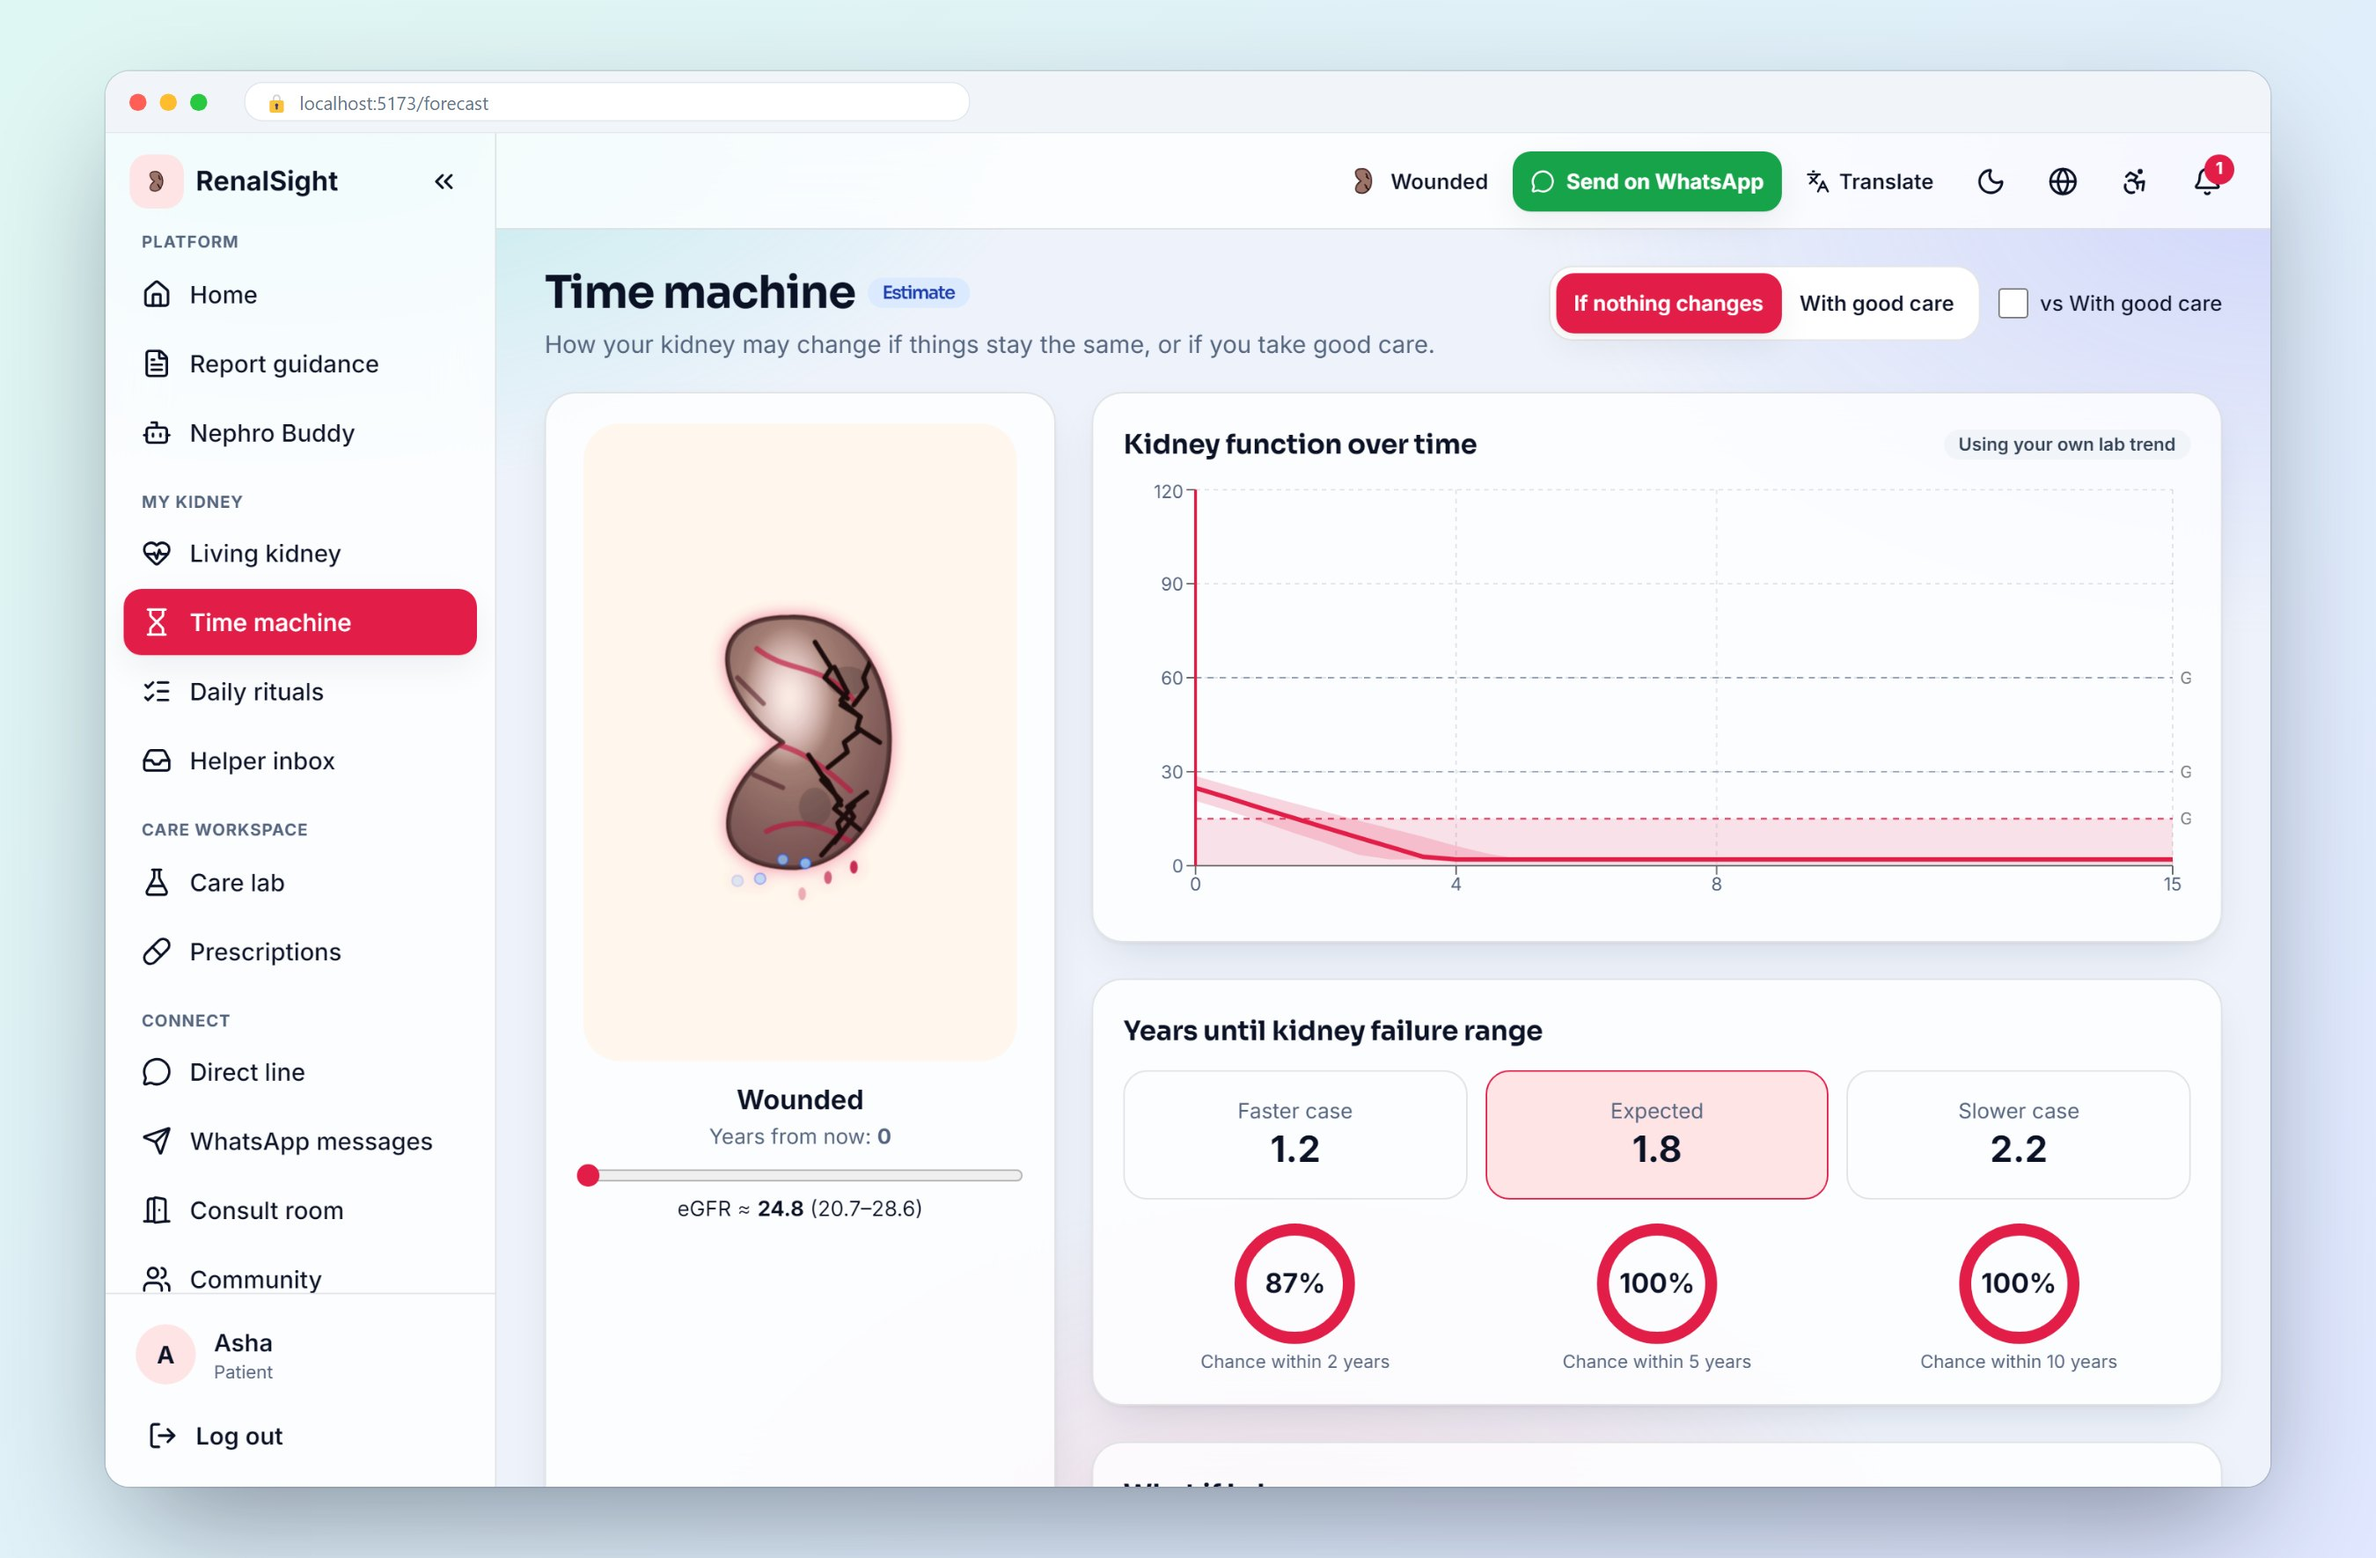
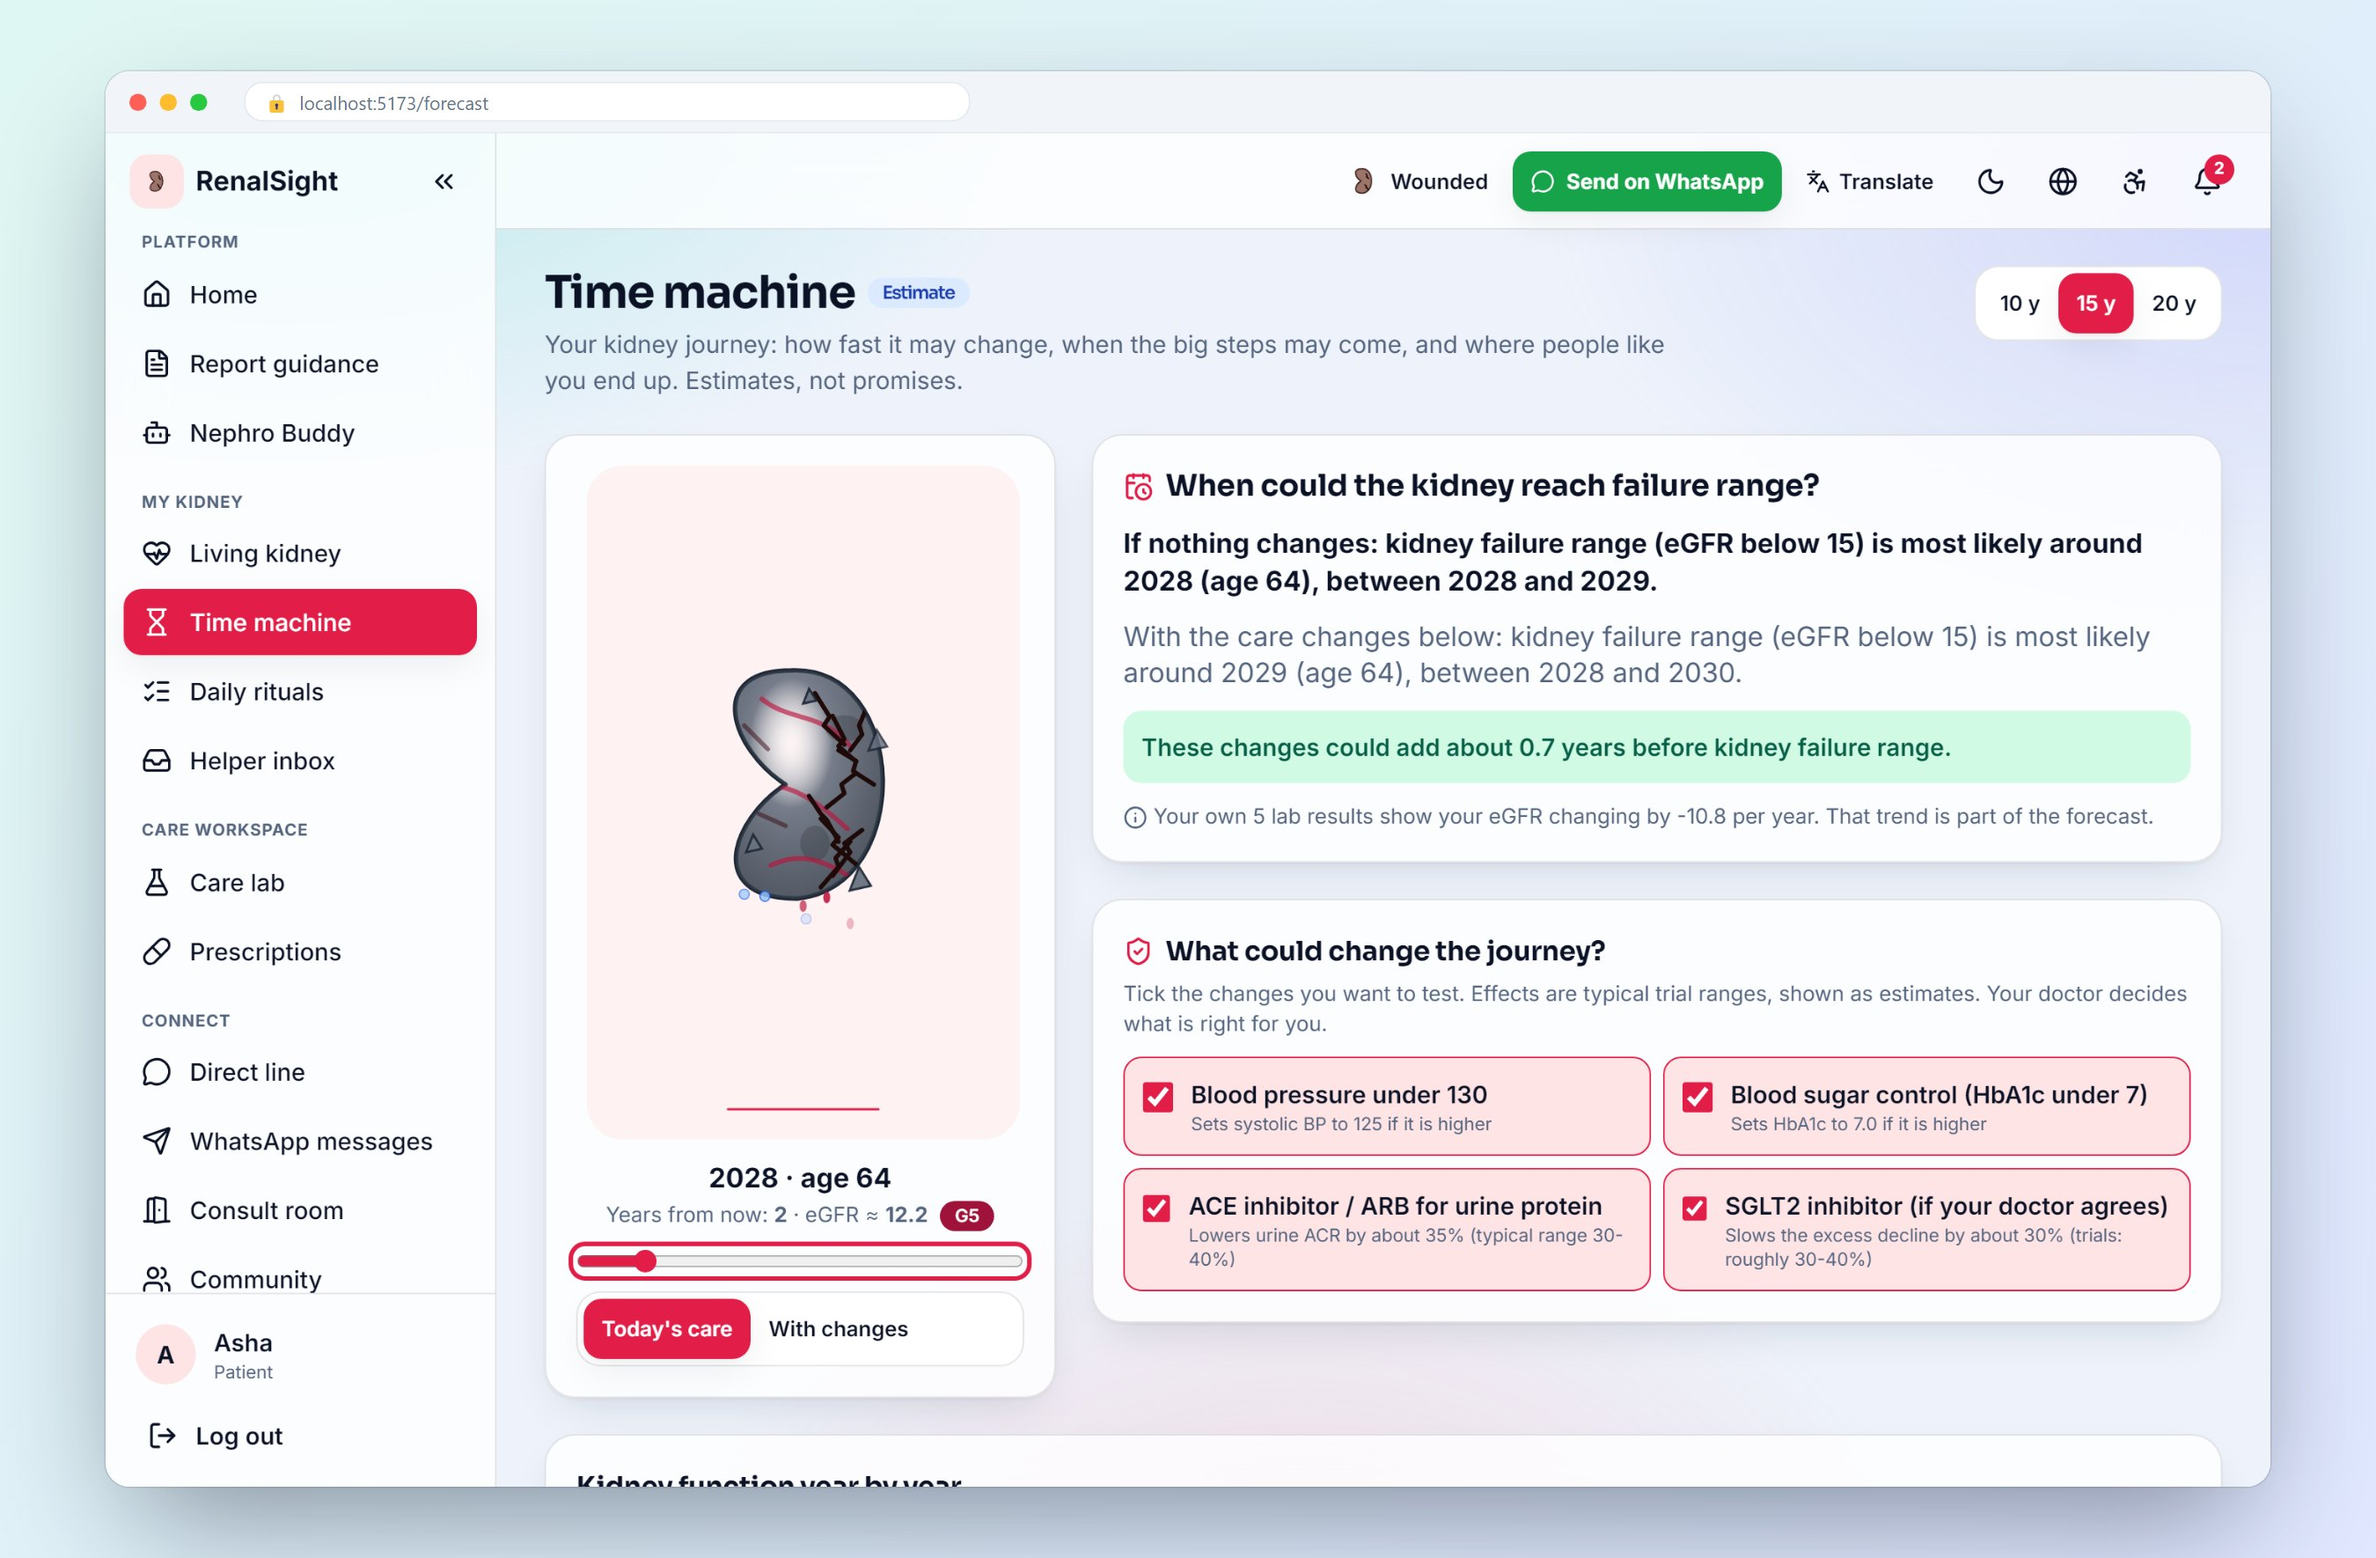
docs: describe the Kidney Journey and refresh its screenshot

diff --git a/README.md b/README.md
@@ -10,7 +10,7 @@
 ![TypeScript](https://img.shields.io/badge/TypeScript-5-3178c6?logo=typescript&logoColor=white)
 ![FastAPI](https://img.shields.io/badge/FastAPI-Python-009688?logo=fastapi&logoColor=white)
 ![SQLite](https://img.shields.io/badge/SQLite-local-003b57?logo=sqlite&logoColor=white)
-![Tests](https://img.shields.io/badge/tests-58%20backend%20%C2%B7%2030%20browser-16a34a)
+![Tests](https://img.shields.io/badge/tests-66%20backend%20%C2%B7%2030%20browser-16a34a)
 ![Languages](https://img.shields.io/badge/languages-EN%20%C2%B7%20TA%20%C2%B7%20BN%20%C2%B7%20TE-f59e0b)
 ![Status](https://img.shields.io/badge/runs-on%20localhost%20%C2%B7%20Codespaces-64748b)
 [![CI](https://github.com/Sangeeth0301/RenalSight/actions/workflows/ci.yml/badge.svg)](https://github.com/Sangeeth0301/RenalSight/actions/workflows/ci.yml)
@@ -70,7 +70,7 @@ One sign-in page, two different experiences. After signing in, patients and care
     <td width="50%"><img src="assets/screens/doctor-dashboard.jpg" alt="Doctor dashboard"><br><sub><b>Doctor dashboard.</b> KPIs, stage distribution, needs-attention list and a sortable patient table.</sub></td>
   </tr>
   <tr>
-    <td><img src="assets/screens/forecast.jpg" alt="Time machine forecast"><br><sub><b>Time machine.</b> Fast, expected and slow paths with what-if sliders.</sub></td>
+    <td><img src="assets/screens/forecast.jpg" alt="Time machine: kidney journey"><br><sub><b>Time machine.</b> When each milestone may come (year and age), care levers, and where people like you end up.</sub></td>
     <td><img src="assets/screens/doctor-drawer.jpg" alt="Doctor patient quick view"><br><sub><b>Touch a patient.</b> A quick view with labs, trend, forecast and one-click actions.</sub></td>
   </tr>
   <tr>
@@ -98,7 +98,8 @@ One sign-in page, two different experiences. After signing in, patients and care
 | Area | What it does |
 |---|---|
 | **Living Kidney** | SVG kidney with five stages from healthy to destroyed. Wounds map to real labs: cracks for eGFR, leaking drops for urine protein, swollen veins for blood pressure, pallor for anaemia, flicker for potassium. Tap a mark to learn why it is there. The whole app shifts teal, amber or rose with severity. |
-| **Clinical engine** | CKD-EPI 2021 eGFR, KDIGO G and A staging, a CKD detector (XGBoost with SHAP reasons), KFRE dialysis-risk, progression forecast with fast, expected and slow ranges, what-if sliders, group survival outlook from NHANES. |
+| **Clinical engine** | CKD-EPI 2021 eGFR, KDIGO G and A staging, a CKD detector (XGBoost with SHAP reasons), KFRE dialysis-risk, and the **Kidney Journey** forecast (below). |
+| **Kidney Journey (Time machine)** | Simulates 2,500 possible futures from the patient's latest eGFR, their own lab trend and their risk factors. Shows eGFR bands by calendar year, **milestones with the year and age** (stage 3a, 3b, 4, transplant evaluation window at eGFR 20, kidney failure at 15, dialysis likely at 10) as fast, median and slow cases, a year slider that ages the Living Kidney and explains what each stage is usually like, a **care-levers what-if** (blood pressure, blood sugar, ACE/ARB, SGLT2 inhibitor), **where people like you end up** (kidney working, kidney failure range, died; group shares from the NHANES Cox model with death as a competing event), group survival at 1, 3, 5 and 10 years, and a "when to start planning" list. It never predicts when one person will die. |
 | **Lab reports** | Manual entry, history chart, paste or upload TXT, CSV or text PDF (units converted, you confirm before saving), photo OCR when Tesseract is installed, and one-click **real sample records** for each kidney-function band. |
 | **Rx Studio** | Care plan, draft medicines from KDIGO-style rules, a deterministic safety engine (renal doses, interactions, NSAIDs, potassium), doctor review, written override (audit-logged), e-signature and PDF. Patients never see unsigned doses. |
 | **Doctor console** | Bright, clinical theme. Patient table with stage, eGFR, trend sparkline, change per year and severity. Click a patient for a quick-view drawer, then a full record with labs, prescriptions and live chat. Review queue and schedule. |
@@ -144,7 +145,7 @@ The browser talks to a FastAPI backend over REST and WebSocket. Every capability
 | ML | scikit-learn, XGBoost, SHAP, lifelines (Cox), statsmodels, pandas, NumPy |
 | AI | OpenAI-compatible HTTP router for Groq, Gemini, OpenAI, Grok and Ollama, with rule-based fallback |
 | Integration | MCP server, local WhatsApp bridge (Playwright over Chrome DevTools), FHIR export with LOINC codes |
-| Quality | pytest (58 tests), Playwright (30 browser tests against a real backend), i18n parity checker |
+| Quality | pytest (66 tests), Playwright (30 browser tests against a real backend), i18n parity checker |
 
 ---
 
@@ -283,9 +284,9 @@ On a hosted copy the local WhatsApp bridge is switched off (`WHATSAPP_ENABLED=0`
 
 | Suite | Count | Covers |
 |---|---|---|
-| Backend (pytest) | 58 | auth, labs, clinical, Rx safety, chat, population, transplant, translation, WhatsApp allowlist, MCP |
+| Backend (pytest) | 66 | auth, labs, clinical, Rx safety, chat, population, transplant, translation, WhatsApp allowlist, MCP |
 | Browser (Playwright) | 30 | real Chromium against the real backend: login, labs, Living Kidney, forecast, Rx with override and PDF, live chat, rooms, community, hub, doctor console, helpers, offline service worker |
-| Language check | 749 keys | key, placeholder and care-plan-code parity across all four languages |
+| Language check | 854 keys | key, placeholder and care-plan-code parity across all four languages |
 
 ---
 
